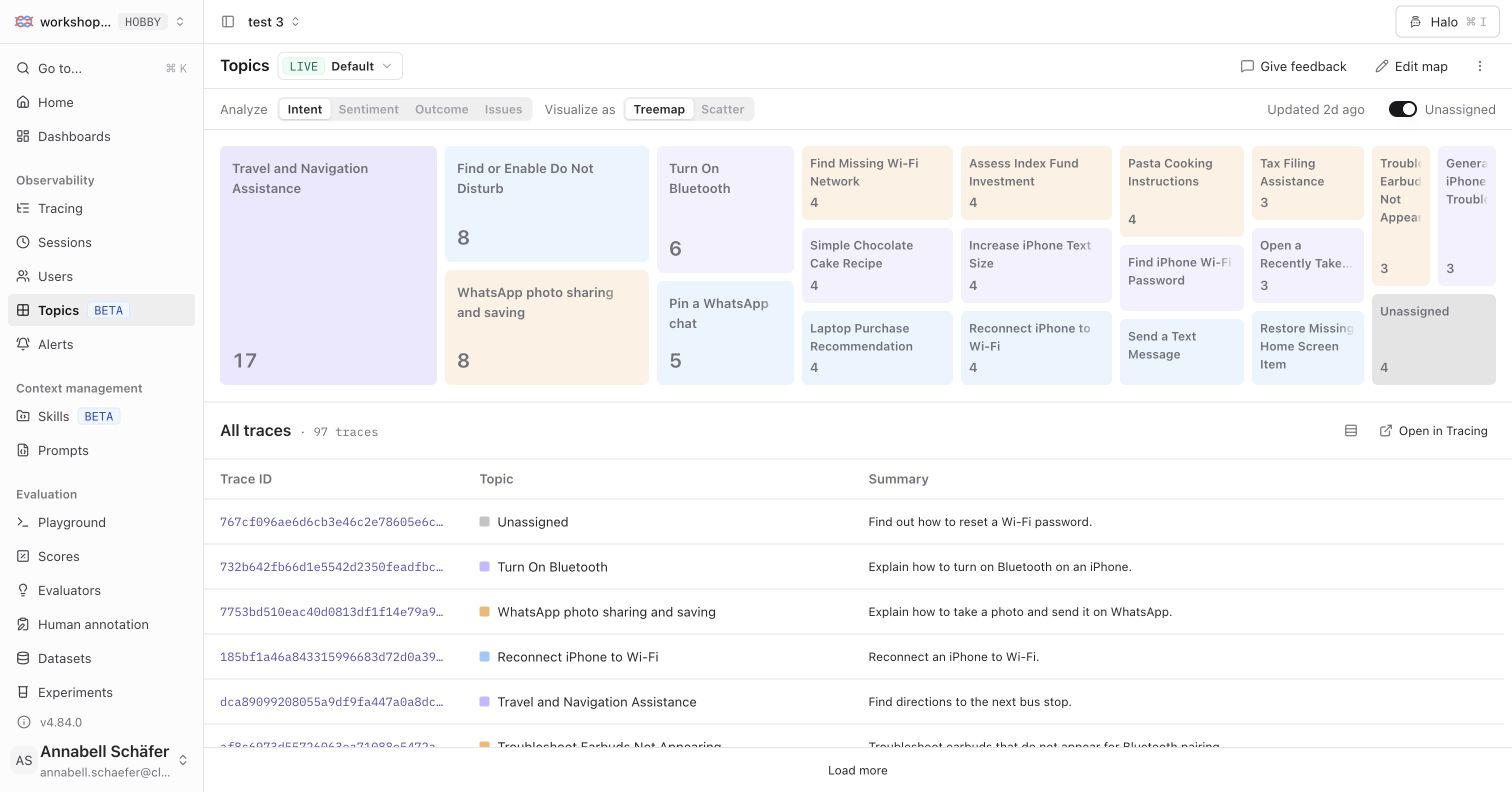
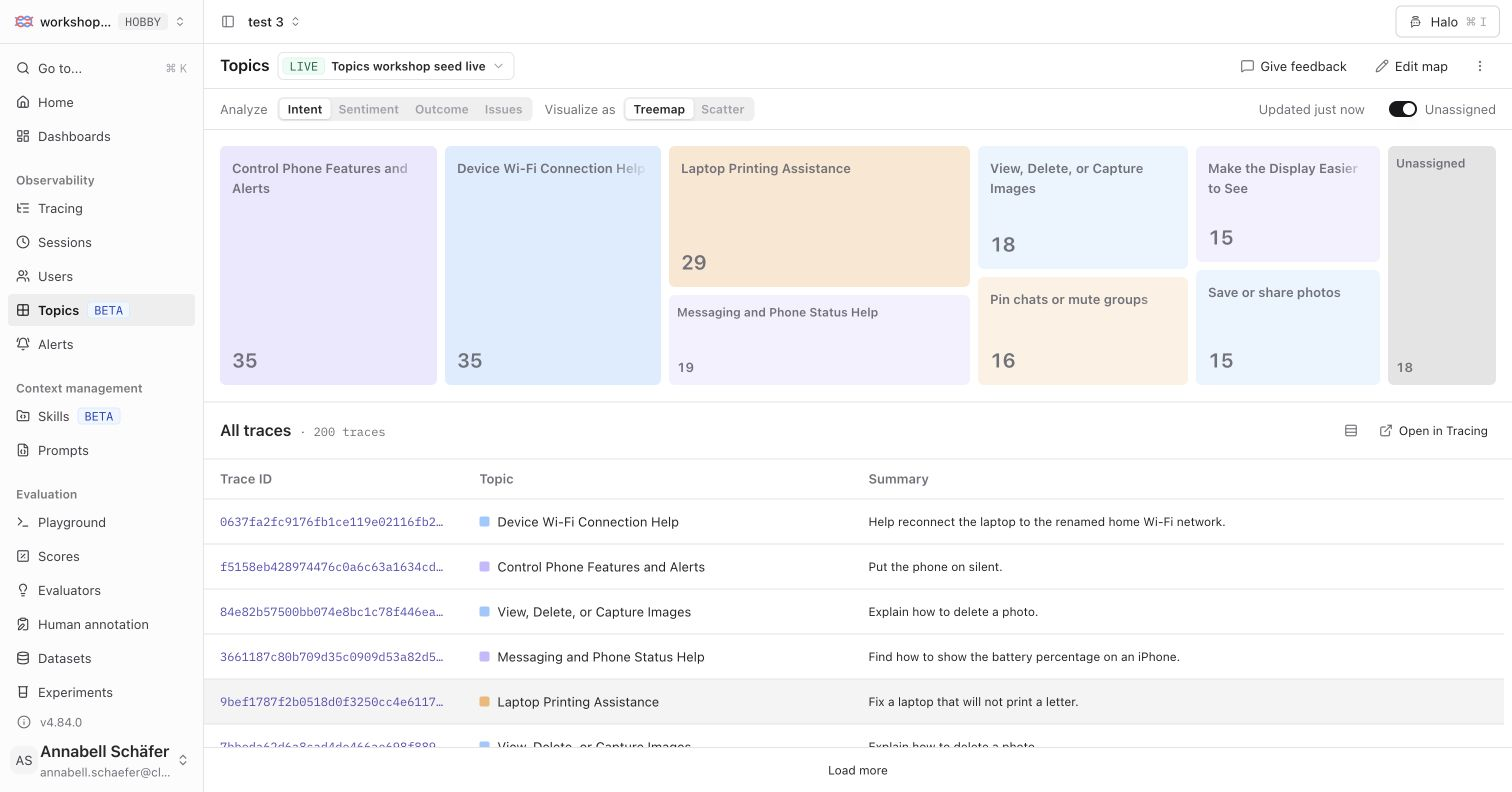
Refresh topic screenshots with full seed map

diff --git a/docs/instructor/04-monitoring.md b/docs/instructor/04-monitoring.md
@@ -36,7 +36,7 @@ Demo order:
 
 ### 4.2 Detect topics and issues
 
-- This is a configuration-and-reading walkthrough. Seed first, then open the empty Topics page and click **Set up topics**. Keep Intent, Sentiment, Outcome, and Issues with the recommended models, leave the single-agent project filter empty, keep sampling at 100%, review the matching-trace count, and click **Start analyzing**. After the first map exists, use **Edit map** for later changes. Do not assume every project map has all four facets.
+- This is a configuration-and-reading walkthrough. Seed first, then open the empty Topics page and click **Set up topics**. Keep Intent, Sentiment, Outcome, and Issues with the recommended models, filter **Query** to `tags:topics-seed` so the map contains the 200 workshop traces, keep sampling at 100%, review the matching-trace count, and click **Start analyzing**. After the first map exists, use **Edit map** for later changes. Do not assume every project map has all four facets.
 - Section 4.2 seeds its own 200 traces with `npm run langfuse:seed:topics`. 110 are ordinary iPhone requests. 60 are laptop requests, 30 about printing and paper and 30 about the laptop's Wi-Fi, and each answer offers a Windows path and an Apple path because Specs does not know which laptop Dad has. 30 are stuck follow-ups that repeat the same steps after Dad says they failed. At least 40% of the batch has Dad sounding frustrated. The seed is not idempotent. The newest trace is about 10 minutes old, and the batch spans about five days, so it sits inside the 7-day matching window.
 - Learners add the OpenAI connection in this section, before **Set up topics**. Capturing signals reuses it. Someone who skips topics adds the connection at the start of 4.3.
 - The wizard's review screenshot currently reports the last 30 days; after a map exists, the **Edit map** preview can report the last 7 days. New traces can take about 5 minutes after their last activity to appear. If the count is empty, do not save an empty map. Check the seed, the filter, and the window first. A map marked **PAUSED** is not analyzing new traces.
@@ -61,7 +61,7 @@ Demo order:
 
 1. Walk the overview: volume, dashboards, error analysis, topics, signals. Dashboards, error analysis, and signals each have one screenshot. Topics uses the map screenshot plus the Intent, Sentiment, and Issues screenshots beside the four insight prompts. Open the dashboards docs only long enough to show where cost and latency aggregates live, and say why those fields have to be on the trace.
 2. Error analysis: run `npm run langfuse:seed:error-analysis` once, queue the last 20 in `error analysis` with `open coding` (Text) and `pass or fail` (Categorical), mark pass or fail, write the notes, ask Halo to find clusters, compare them with the rough list on the page, ask Halo to create categorical scores for those clusters, assign them on a second pass, ask Halo for the frequency dashboard, then land the three decisions and read the more specific prompt under them. Do not publish it in this lab. Point to topics.
-3. Topics: add the OpenAI connection, run `npm run langfuse:seed:topics` once, open the empty Topics page, click **Set up topics**, keep the four facets and recommended models, leave the filter empty and sampling at 100%, review the matching-trace count, and click **Start analyzing**. Compare Treemap and Scatter, then use **Open in Tracing**. Investigate laptop printing as missing context, frustration as a lead-in to disagreement and all-caps scores, repeated failed troubleshooting as a prompt fix, and mismatched searches that did not change the answer. Do not publish the laptop prompt. If time remains, ask Halo to open one issue group and point at the step that caused it. Point to capturing signals.
+3. Topics: add the OpenAI connection, run `npm run langfuse:seed:topics` once, open the empty Topics page, click **Set up topics**, keep the four facets and recommended models, filter **Query** to `tags:topics-seed`, keep sampling at 100%, review the matching-trace count, and click **Start analyzing**. Compare Treemap and Scatter, then use **Open in Tracing**. Investigate laptop printing as missing context, frustration as a lead-in to disagreement and all-caps scores, repeated failed troubleshooting as a prompt fix, and mismatched searches that did not change the answer. Do not publish the laptop prompt. If time remains, ask Halo to open one issue group and point at the step that caused it. Point to capturing signals.
 4. Capturing signals: reuse the OpenAI connection, pick **5.6 Luna**, create **Detect User Disagreement** on a production root observation, map both variables, test, create, and execute.
 5. Create **Detect User Frustration (ALL CAPS)** on the same root, test, create, and execute.
 6. Send one disagreement turn and one ALL-CAPS turn. In **Tracing**, filter by the evaluator score to find them. If time remains, ask Halo on the **Dashboard** tab to chart those signals over time.

diff --git a/docs/learner/04-monitoring/topics.md b/docs/learner/04-monitoring/topics.md
@@ -69,7 +69,7 @@ On a new project, Topics opens with **See what your traces are about** and a **S
 
    ![Choose the four facets and the recommended analysis models.](../../images/topics/setup-look-for-current.png)
 
-2. On **Select traces to analyze**, use **Query** or **Builder** to limit the map to the traces for this app. Topics runs on trace-level data. If the project contains several agents or applications, filtering keeps them from being mixed into one map. For this workshop, leave the filter empty so all seeded traces match.
+2. On **Select traces to analyze**, use **Query** or **Builder** to limit the map to the traces for this app. Topics runs on trace-level data. If the project contains several agents or applications, filtering keeps them from being mixed into one map. For this workshop, enter `tags:topics-seed` in **Query** so the map contains the 200-trace Topics seed. In a clean project where these are the only traces, an empty filter produces the same set.
 
    Leave the **Sampling rate** at `100%`. The wizard shows the matching-trace window and count on the review step; in the current UI capture, it reports the last 30 days. After a map exists, the **Edit map** preview may report a 7-day window instead. New traces can take about 5 minutes after their last activity to become eligible; the seed timestamps its newest trace more than 5 minutes in the past.
 
@@ -83,7 +83,7 @@ On a new project, Topics opens with **See what your traces are about** and a **S
 
    Click **Start analyzing**. The analysis runs in the background and may take a few minutes. New traces appear about 5 minutes after their last activity.
 
-After the first map exists, **Edit map** opens these settings again. Use it to rename the map, change facets or filters, toggle **Live updates**, or adjust the sampling rate.
+After the first map exists, **Edit map** opens these settings again. Use it to rename the map, change facets or filters, toggle **Live updates**, or adjust the sampling rate. The result screenshots in this lesson use a map filtered with `tags:topics-seed` and show 200 traces.
 
 If the map is marked **PAUSED**, it is not analyzing new traces. The header status tells you whether the selected map is active. The map selector can contain more than one map.
 
